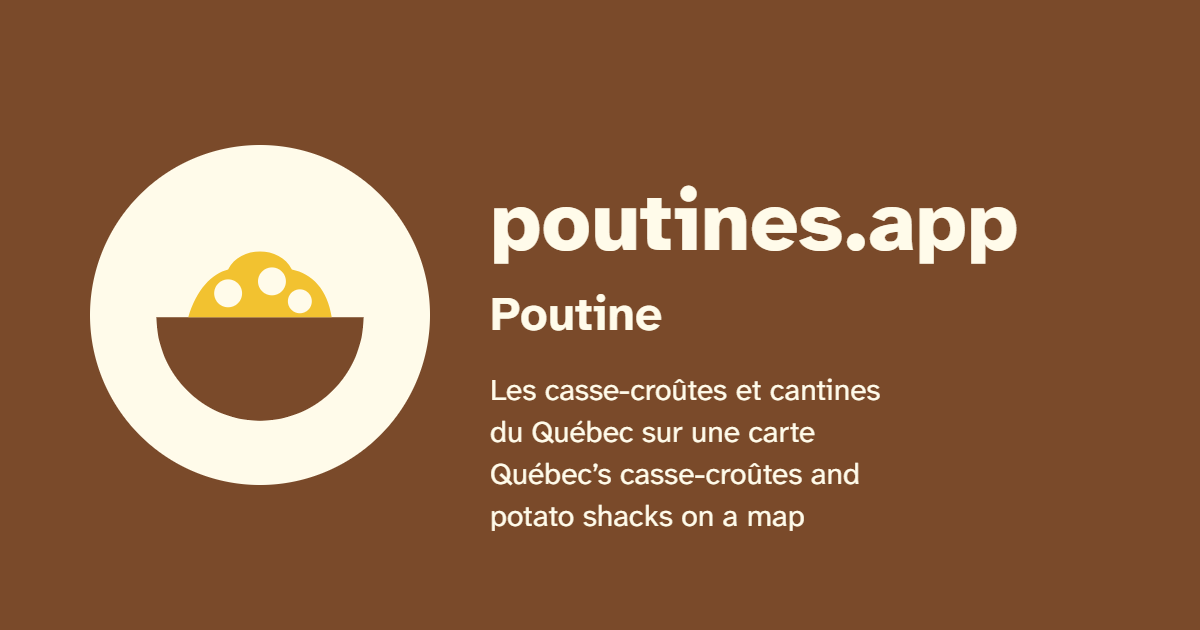
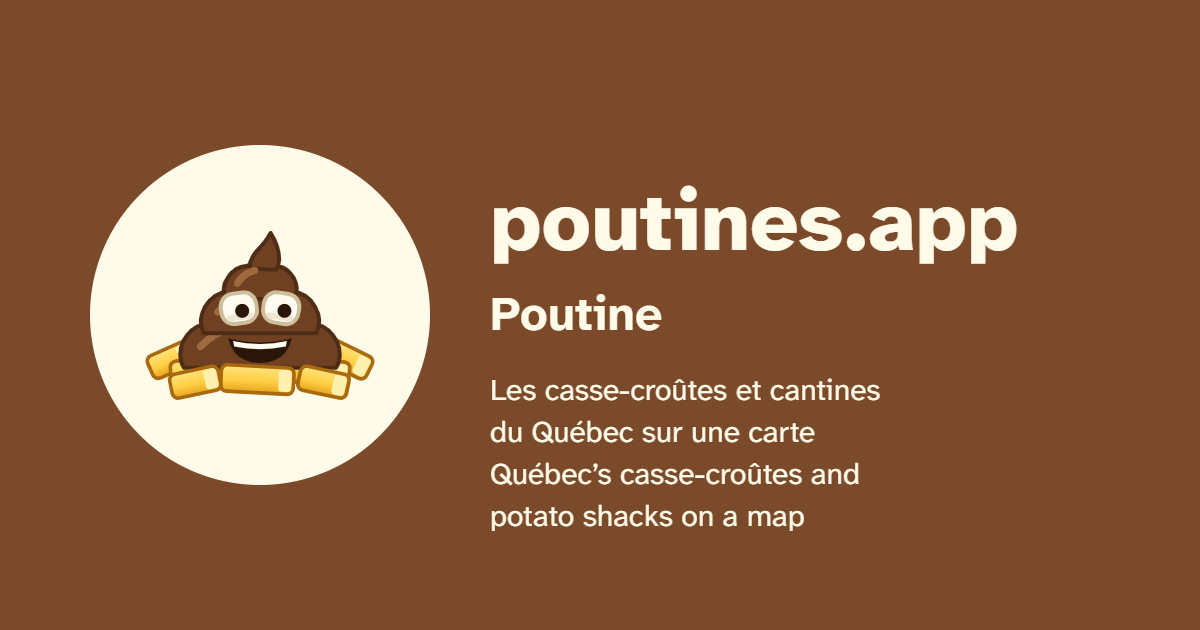
Link previews show the poutine poop
The preview picture (public/share.png) puts bowl 1, the gravy swirl on
fries, on the cream disc in place of the app's bowl, and og:image asks for
share.png?v=2 so apps that keep previews by address fetch the new one.

Changed region(s): [[0.1233, 0.3619, 0.3083, 0.6635]]

diff --git a/src/ui/storyPicture.ts b/src/ui/storyPicture.ts
@@ -300,16 +300,22 @@ export async function storyPicture(
 }
 
 /**
- * The picture link previews show (public/share.png, 1200 × 630): the name, the address and what
- * the site is in both languages, since a preview can't know its reader's. Made once in a browser.
+ * The picture link previews show (public/share.png, 1200 × 630): the poutine poop of bowl 1 on a
+ * cream disc (Alex, 2026-10-20: "change the picture to the share link to our poutine poop"), the
+ * name, the address and what the site is in both languages, since a preview can't know its
+ * reader's. Made once in a browser.
  */
 export async function linkPreview(english: Strings, french: Strings): Promise<Blob> {
   const names = french.appName;
-  const icon = await ready([names, SITE_NAME, english.tagline, french.tagline]);
+  await ready([names, SITE_NAME, english.tagline, french.tagline]);
   const context = canvasOf(1200, 630);
   context.fillStyle = GRAVY;
   context.fillRect(0, 0, 1200, 630);
-  badge(context, icon, 260, 315, 170);
+  context.fillStyle = CREAM;
+  context.beginPath();
+  context.arc(260, 315, 170, 0, Math.PI * 2);
+  context.fill();
+  drawBowl(context, 1, 1, 260 - 140, 315 - 150, 280);
   context.textAlign = 'left';
   context.fillStyle = CREAM;
   context.font = font(800, 84);

diff --git a/index.html b/index.html
@@ -19,7 +19,7 @@
     />
     <meta property="og:url" content="https://poutines.app/" />
     <meta property="og:locale" content="fr_CA" />
-    <meta property="og:image" content="https://poutines.app/share.png" />
+    <meta property="og:image" content="https://poutines.app/share.png?v=2" />
     <meta property="og:image:width" content="1200" />
     <meta property="og:image:height" content="630" />
     <meta property="og:image:alt" content="poutines.app · Poutine" />
